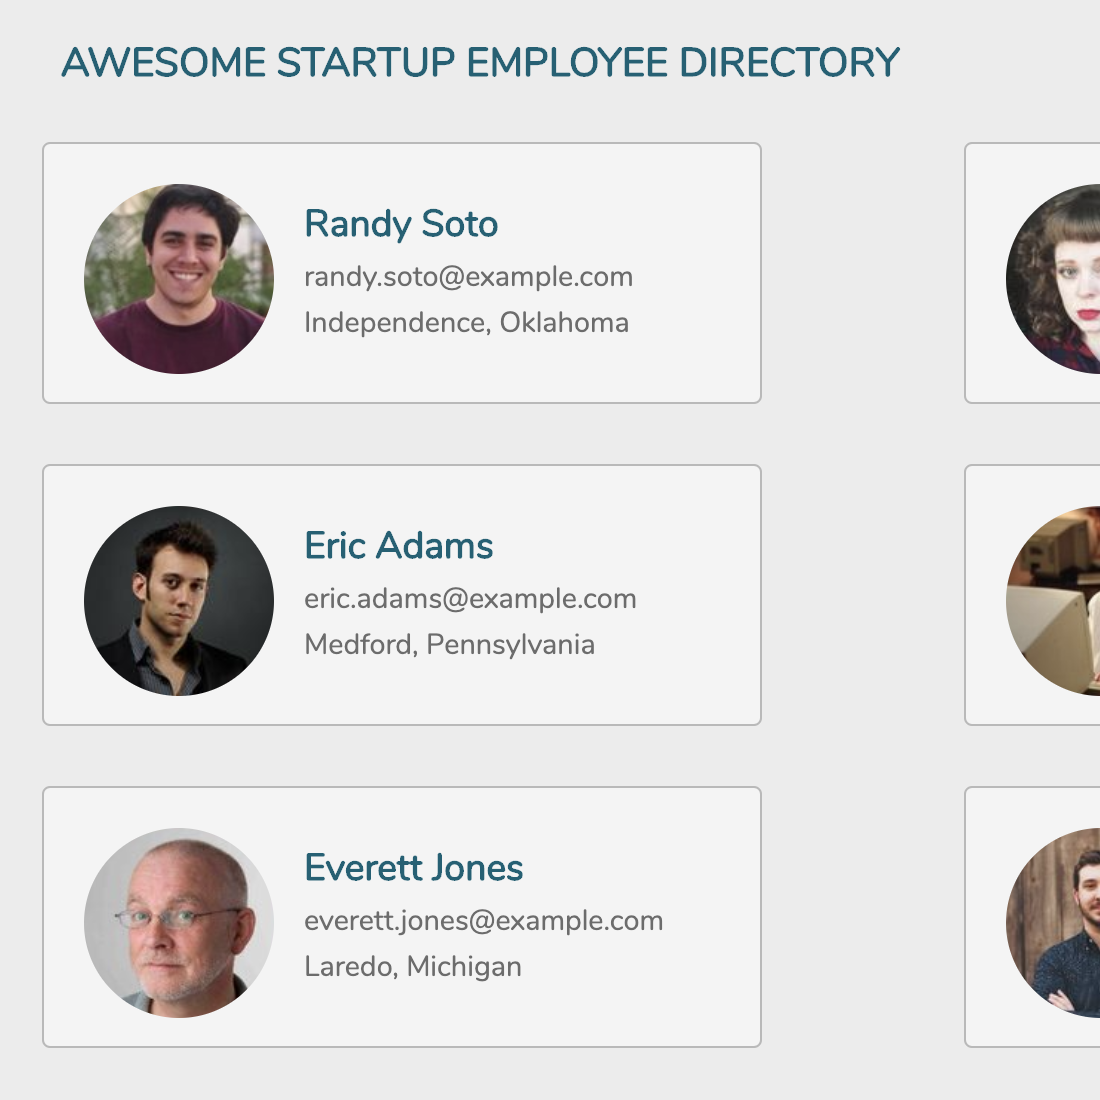
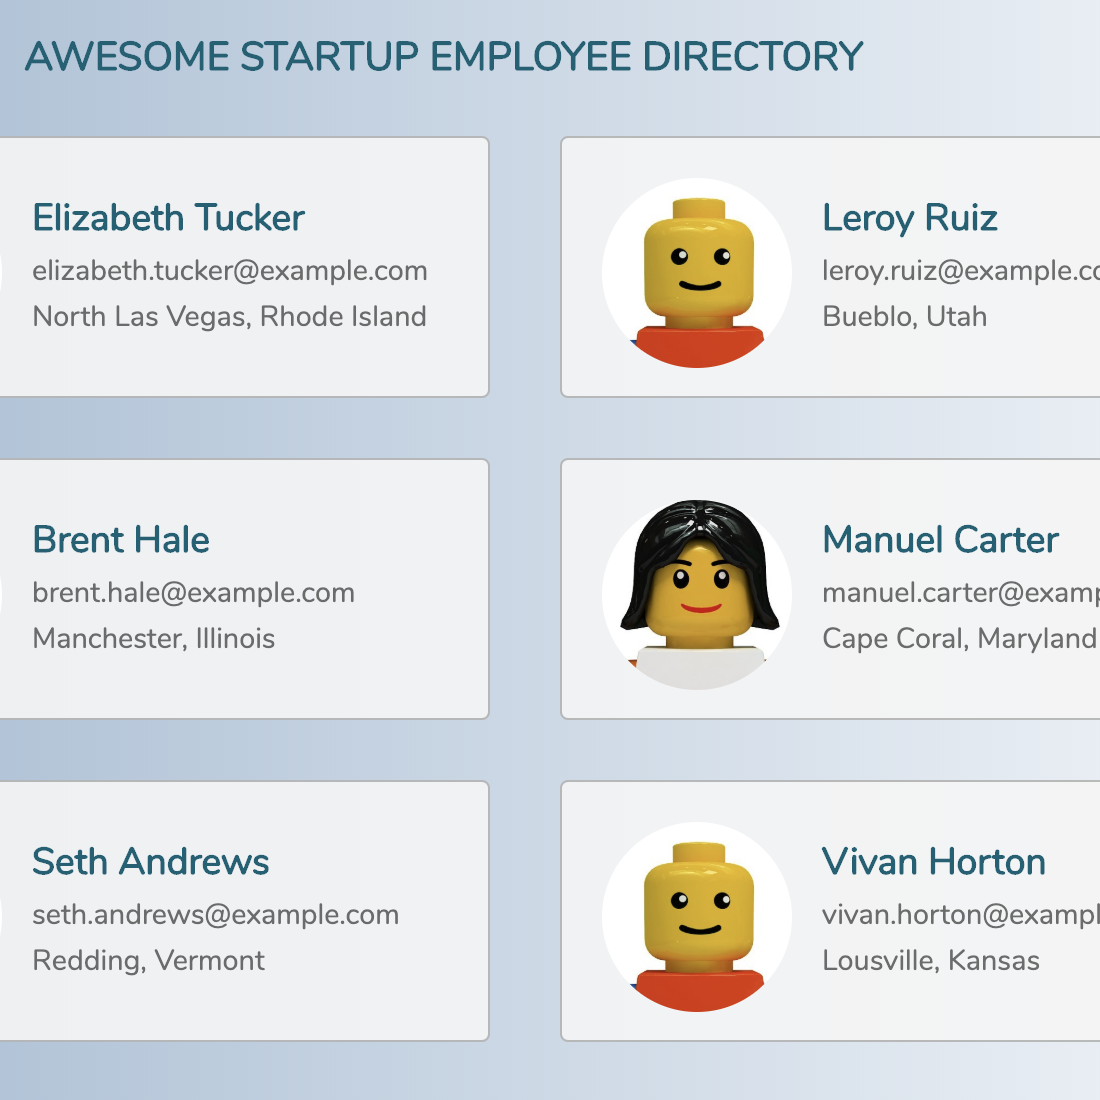
Final tweaks, updated readme

diff --git a/public/css/foundation.css b/public/css/foundation.css
@@ -2241,7 +2241,7 @@ h6, .h6 {
     color: #cacaca; }
 
 h1, .h1 {
-  font-size: 1.5rem;
+  font-size: 2.5rem;
   line-height: 1.4;
   margin-top: 0;
   margin-bottom: 0.5rem; }
@@ -2278,7 +2278,7 @@ h6, .h6 {
 
 @media print, screen and (min-width: 40em) {
   h1, .h1 {
-    font-size: 3rem; }
+    font-size: 4rem; }
   h2, .h2 {
     font-size: 2.5rem; }
   h3, .h3 {

diff --git a/public/css/style.css b/public/css/style.css
@@ -3,6 +3,10 @@ h1,h2,h3,h4,h5,p{
   font-family: 'Merriweather', serif;
 }
 
+  h1 {
+    font-family: 'Knewave', cursive;
+  }
+
   h5{
     font-family: 'Lato', 'Helvetica Neue', Helvetica, Arial, sans-serif;
     letter-spacing: 2.5px;

diff --git a/README.md b/README.md
@@ -14,9 +14,9 @@ Welcome to my portfolio site! This site is my first attempt at server-side JavaS
 **Pug**
 
 ## CSS changes: 
-To make this portfolio look a little more "me" I added some color and gradients to the background, a matching logo. I also changed the look of the 'Live Demo' and 'GitHub Repo' links.
+To make this portfolio look a little more "me" I added some color and gradients to the background, a matching logo. I also changed the look of the 'Live Demo' and 'GitHub Repo' links as well as the h1 font.
 
 ## Future Improvements:
 I'd like to continue to improve the design of the site by exploring more fonts, CSS transitions, etc. I'd also like to add social media icons/links on the sidebar.
 
-(https://github.com/christine927t/public-API-requests)
+(https://christine927t.github.io/public-API-requests/)
